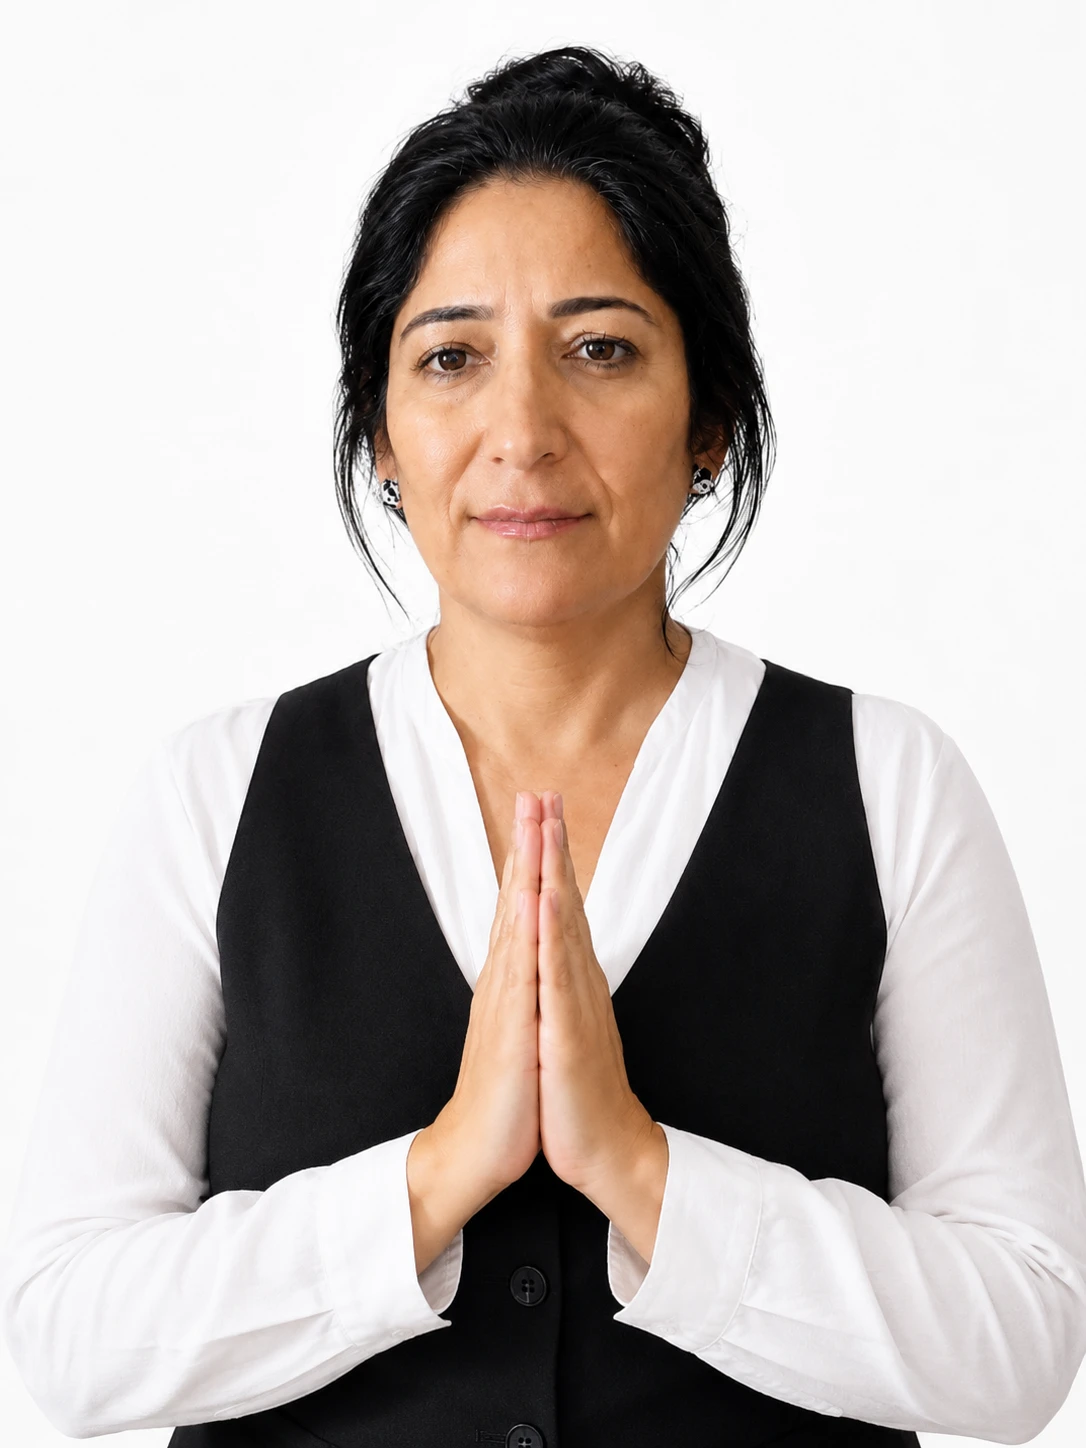
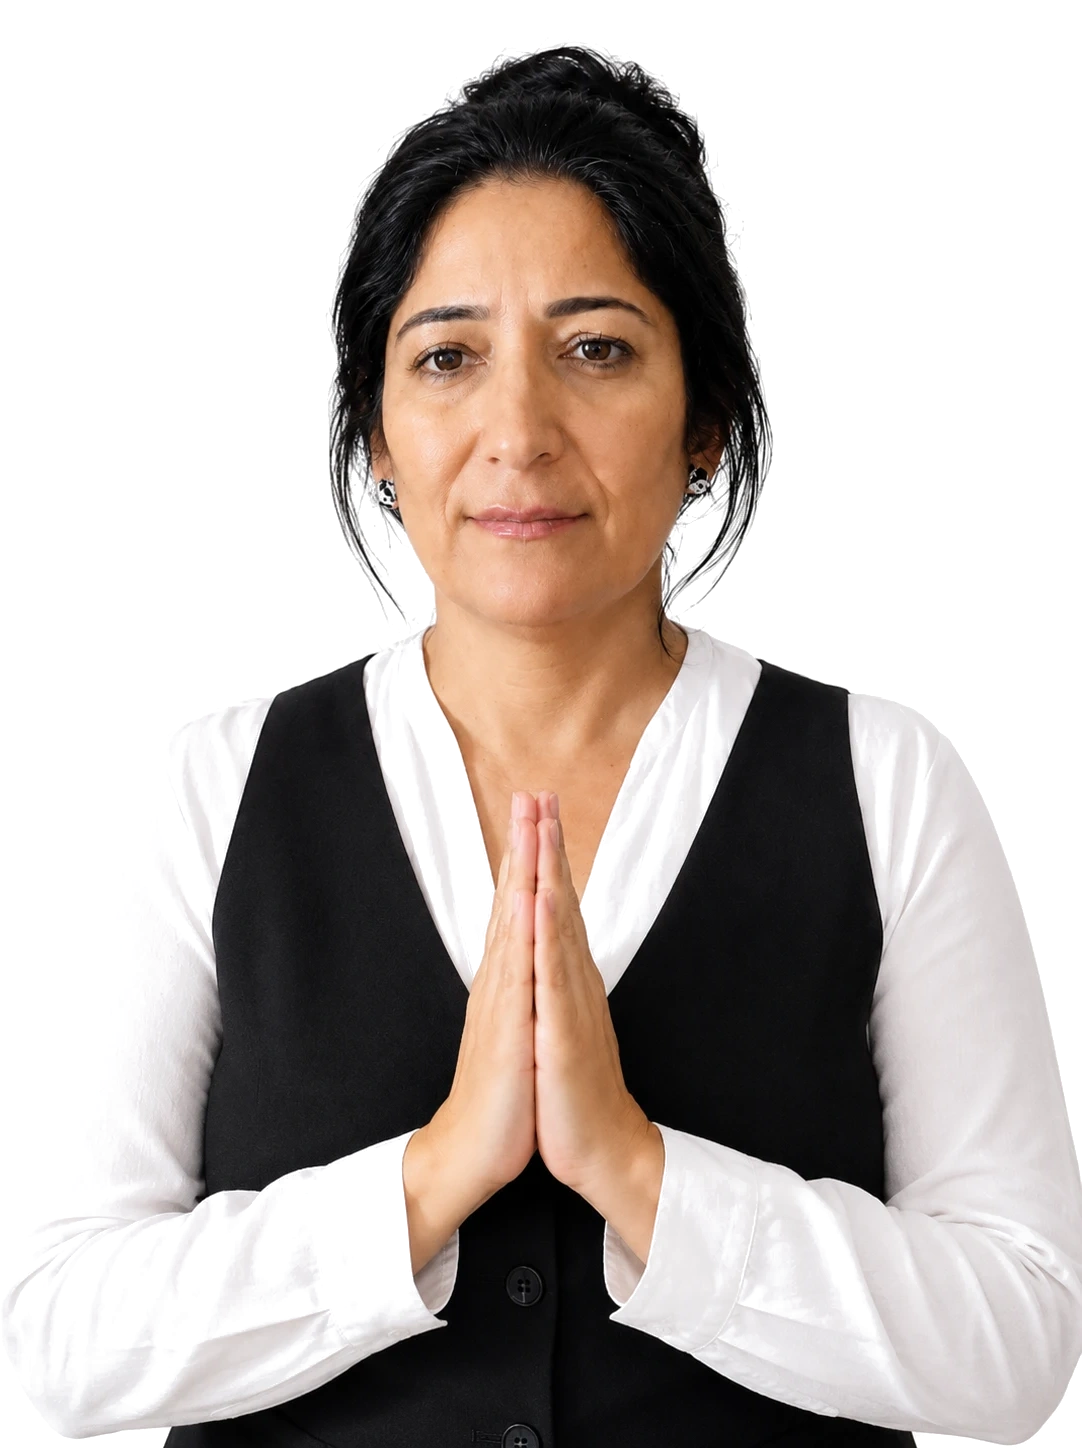
feat: removed background from Namaste.webp photo and updated CheckoutPage layout for seamless portrait rendering

diff --git a/src/features/landing/components/CheckoutPage.tsx b/src/features/landing/components/CheckoutPage.tsx
@@ -277,7 +277,7 @@ export default function CheckoutPage({
             </ul>
           </div>
 
-          {/* Founder Welcome Card with Namaste.webp */}
+          {/* Founder Welcome Card with transparent Namaste.webp */}
           <div
             style={{
               background: cardBg,
@@ -291,31 +291,21 @@ export default function CheckoutPage({
               boxShadow: isDark ? '0 10px 30px rgba(0,0,0,0.2)' : '0 10px 30px rgba(74,50,96,0.04)',
             }}
           >
-            <div
+            <img
+              src="https://firebasestorage.googleapis.com/v0/b/awakened-path-2026.firebasestorage.app/o/EmotionAndFeelingsCourse%2FNamaste.webp?alt=media"
+              alt="Sim Katyal & Shruti Khungar"
               style={{
-                position: 'relative',
+                maxHeight: 200,
+                width: 'auto',
                 marginBottom: 16,
-                padding: 4,
-                borderRadius: 16,
-                background: isDark ? 'rgba(196,145,58,0.12)' : 'rgba(74,50,96,0.06)',
-                border: `1px solid ${isDark ? 'rgba(196,145,58,0.25)' : 'rgba(74,50,96,0.15)'}`,
+                objectFit: 'contain',
+                display: 'block',
+                filter: isDark ? 'drop-shadow(0 8px 20px rgba(0,0,0,0.4))' : 'drop-shadow(0 8px 20px rgba(74,50,96,0.12))',
               }}
-            >
-              <img
-                src="https://firebasestorage.googleapis.com/v0/b/awakened-path-2026.firebasestorage.app/o/EmotionAndFeelingsCourse%2FNamaste.webp?alt=media"
-                alt="Sim Katyal & Shruti Khungar"
-                style={{
-                  maxHeight: 190,
-                  width: 'auto',
-                  borderRadius: 12,
-                  objectFit: 'contain',
-                  display: 'block',
-                }}
-                onError={(e) => {
-                  (e.target as HTMLImageElement).src = '/Namaste.webp';
-                }}
-              />
-            </div>
+              onError={(e) => {
+                (e.target as HTMLImageElement).src = '/Namaste.webp';
+              }}
+            />
             <p style={{ fontFamily: SERIF, fontSize: 16, color: ink, fontStyle: 'italic', lineHeight: 1.6, margin: '0 0 10px' }}>
               &ldquo;With deep presence and gratitude, we welcome you. Thank you for walking this path with us toward emotional freedom, quiet clarity, and returning home to your true self.&rdquo;
             </p>
